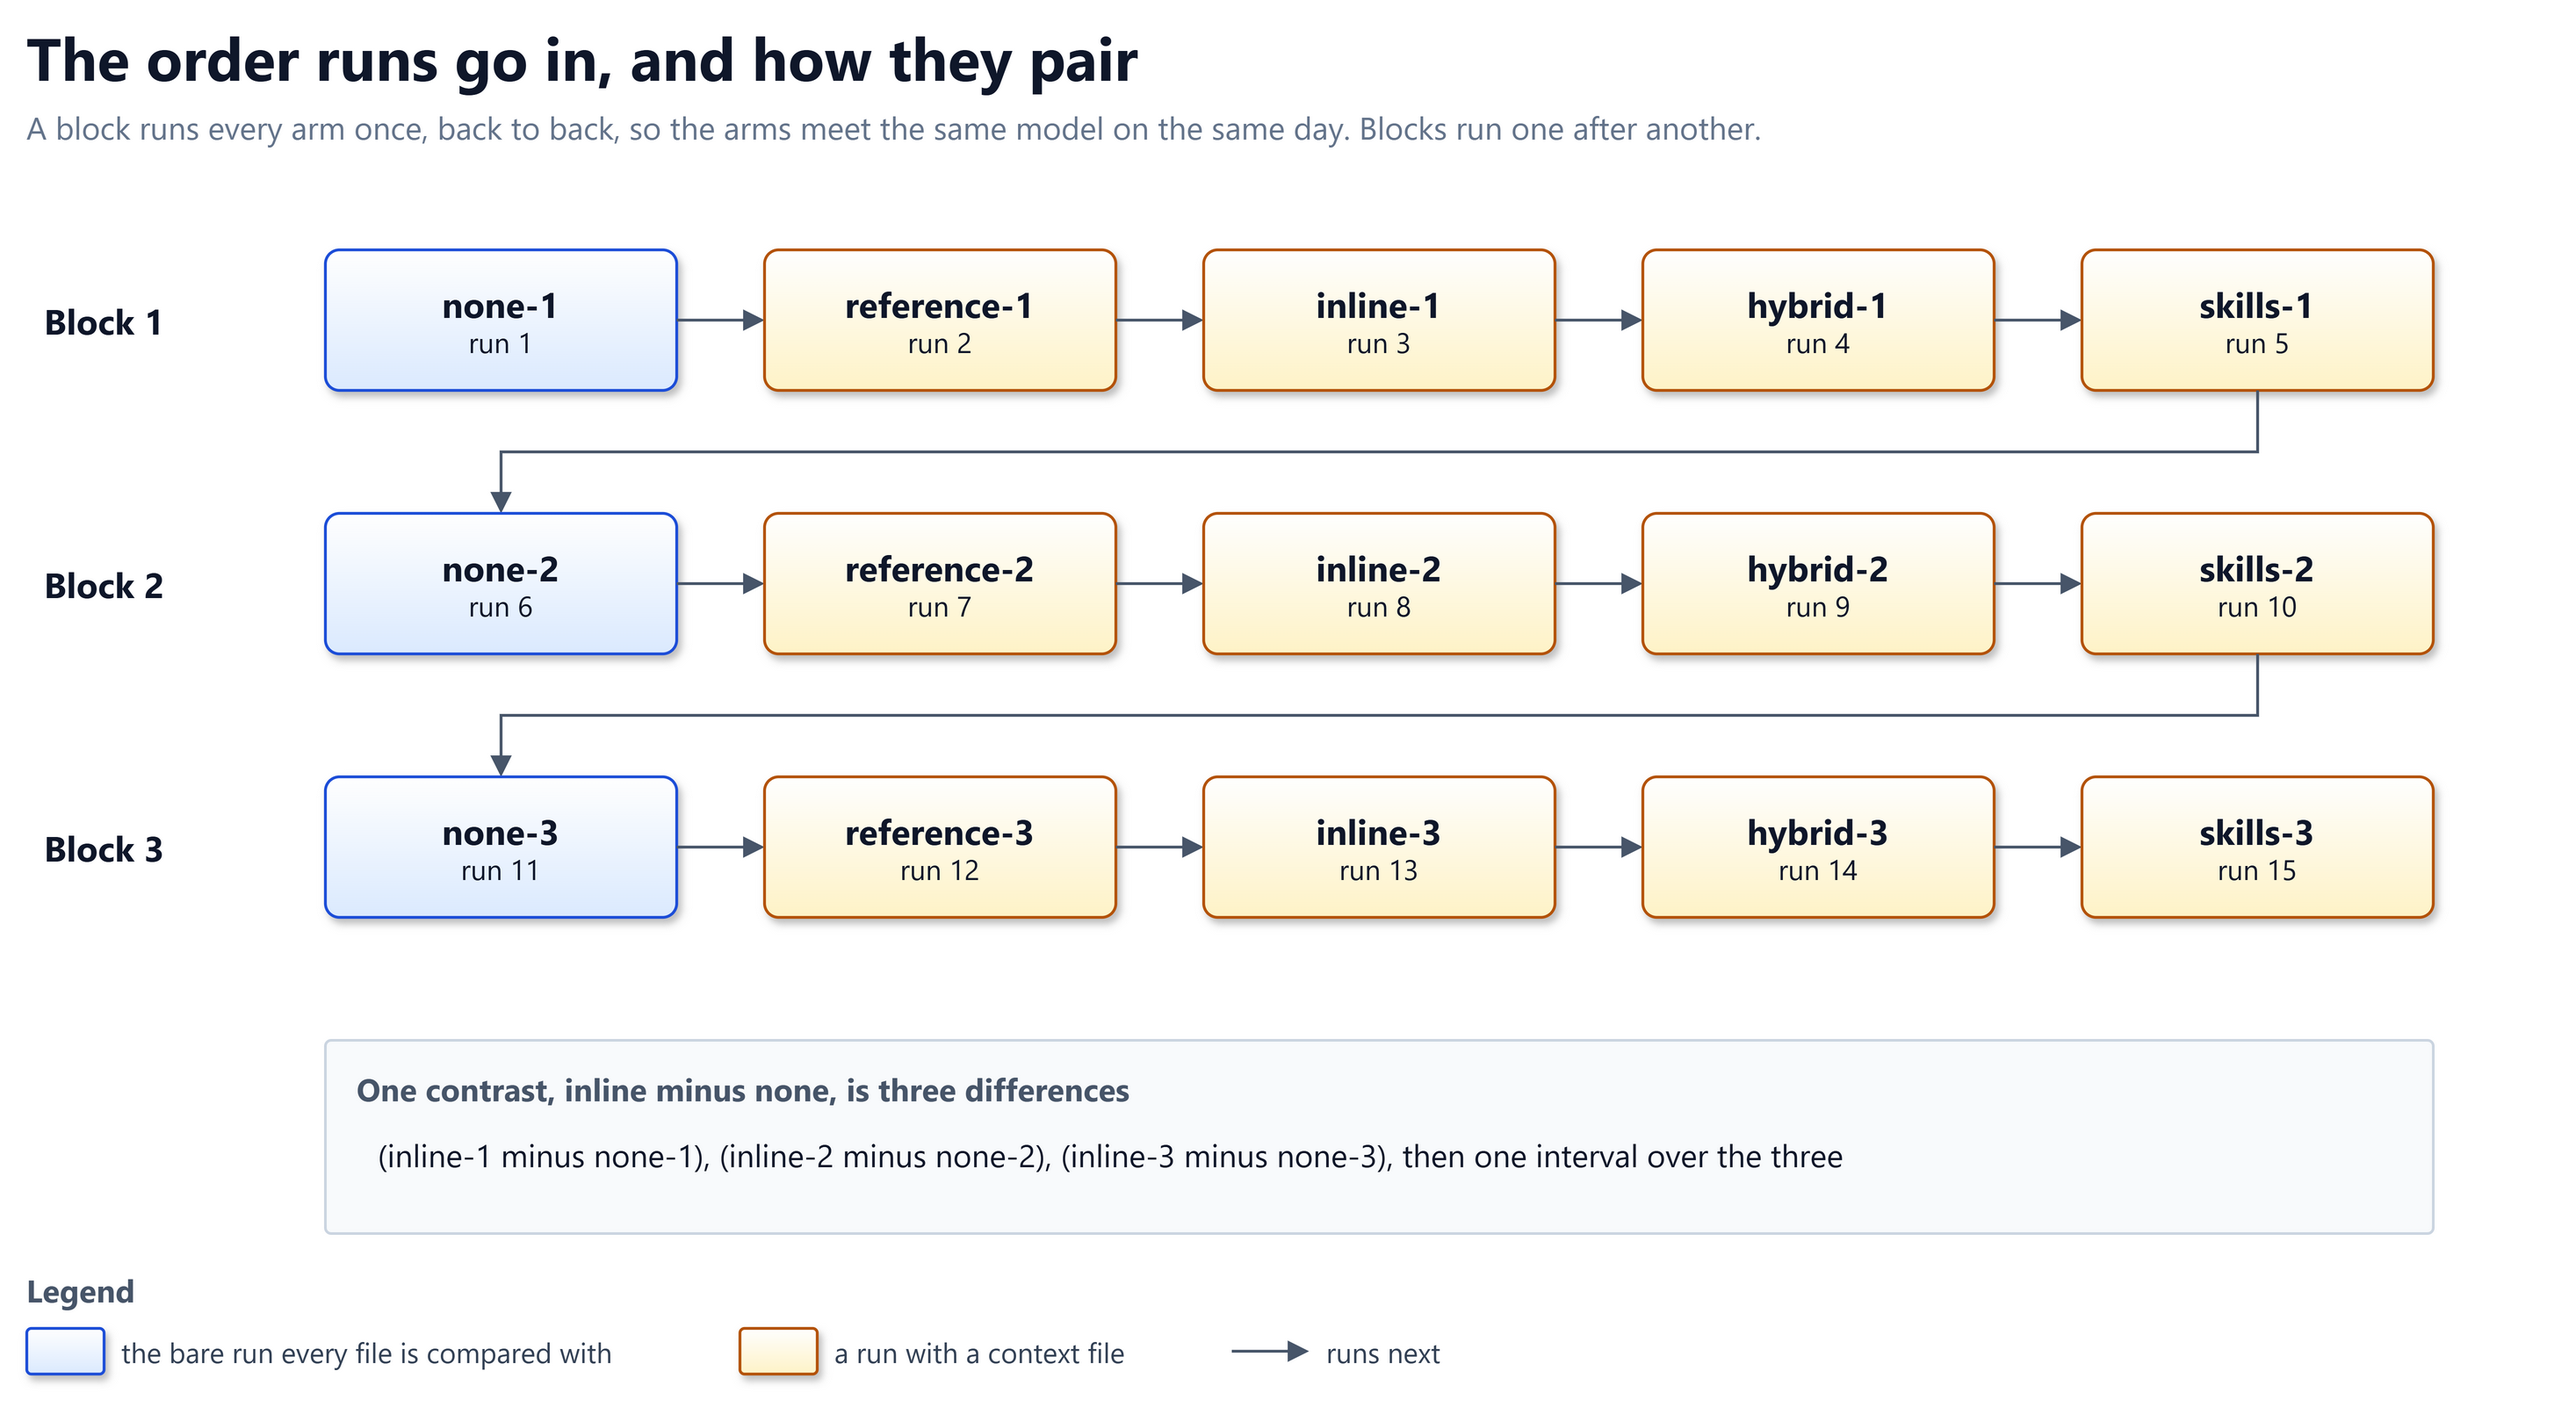
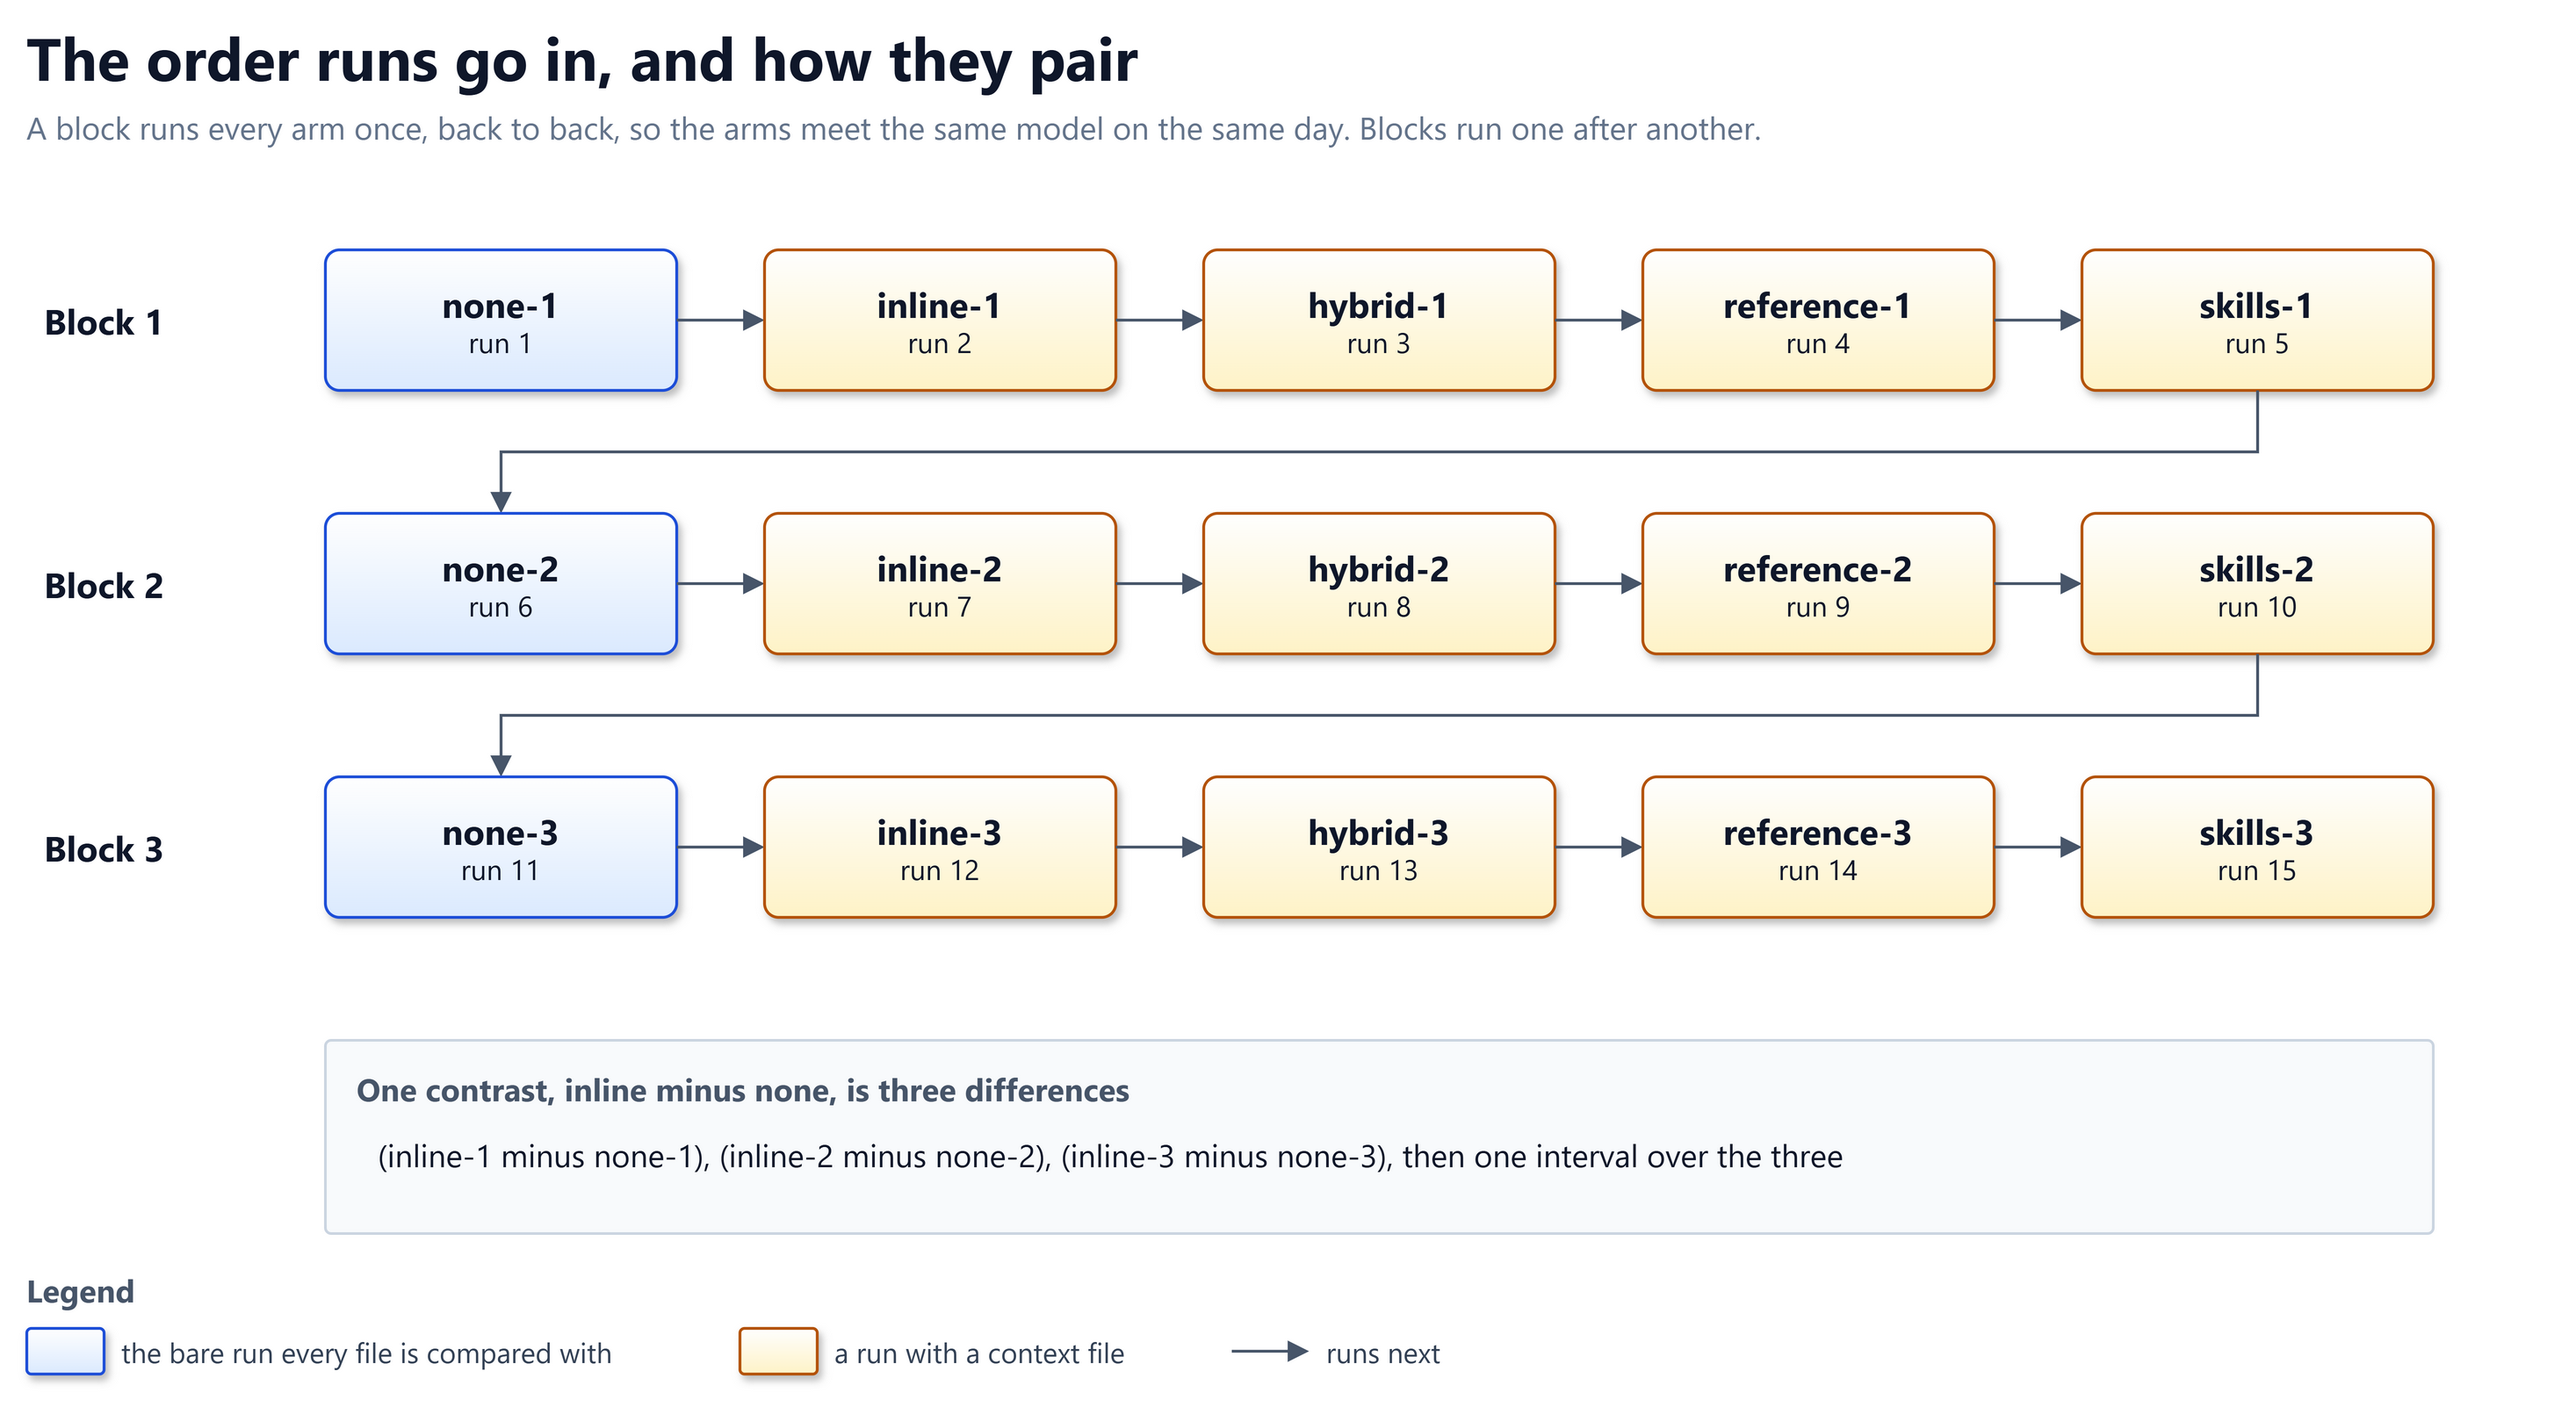
docs(primer): order the arms from all rules inline to rules on demand
The knob, the arms table and both diagrams list the arms as none,
inline, hybrid, reference, skills: from every rule in the file to rules
loaded only when a task needs them.

Claude-Session: https://claude.ai/code/session_01HVh8GVGd72WUJ3BvM7TXQn

diff --git a/docs/primer.md b/docs/primer.md
@@ -46,11 +46,11 @@ one sitting and strict enough that a wrong cent shows.
 A round turns one knob at a time and holds everything else still. Then any
 change on the meters has one cause.
 
-![Five knobs the benchmark turns, each with its settings: the context file (none, reference, inline, hybrid, skills, with none selected), the specification (thin or normal), the builder model (Haiku 4.5 or Sonnet 5), the task (build or change) and the runs per arm (3 or 5). Below them, what is held still in every run: the app, the bounds of $100 or two hours, the prompt, the ruler and the judge. Below that, the meters read on every run: hidden tests, attack probes, the judge's scores, conventions, size and cost](diagrams/knobs.png)
+![Five knobs the benchmark turns, each with its settings: the context file (none, inline, hybrid, reference, skills, with none selected), the specification (thin or normal), the builder model (Haiku 4.5 or Sonnet 5), the task (build or change) and the runs per arm (3 or 5). Below them, what is held still in every run: the app, the bounds of $100 or two hours, the prompt, the ruler and the judge. Below that, the meters read on every run: hidden tests, attack probes, the judge's scores, conventions, size and cost](diagrams/knobs.png)
 
 | Knob | Settings | What turning it asks | Turned in |
 | ---- | -------- | -------------------- | --------- |
-| Context file, the **arm** | `none`, `reference`, `inline`, `hybrid`, `skills` | Does a file help, and which way of delivering the rules | Every round |
+| Context file, the **arm** | `none`, `inline`, `hybrid`, `reference`, `skills` | Does a file help, and which way of delivering the rules | Every round |
 | Specification | normal, thin | Does a file supply what a sparse spec leaves out | Round 4 |
 | Builder model | Sonnet 5, Haiku 4.5 | Does a file help a weaker model more | Round 4 |
 | Task | build, change | Does the design take a change it was not built for | Most rounds. Round 4's thin run only built |
@@ -61,9 +61,9 @@ The five arms of round 5, which asks how the rules should reach the agent:
 | Arm | What the agent gets | What it isolates |
 | --- | ------------------- | ---------------- |
 | `none` | No file: the bare agent | The baseline every file is compared with |
-| `reference` | A file that only names the templates to read, with the templates beside it | Is pointing to the rules enough |
 | `inline` | Every rule that applies, copied in | Do the templates help when all of it is in the file |
 | `hybrid` | The rules that matter copied in, the rest pointed to, the templates beside it | Does the way the owner's projects use help |
+| `reference` | A file that only names the templates to read, with the templates beside it | Is pointing to the rules enough |
 | `skills` | A short root file plus one skill per kind of task, loaded when the task needs it | Does a root file with skills deliver what hybrid does |
 
 Rounds 1 to 4 ran `full`, the `inline` idea made through the templates'
@@ -98,7 +98,7 @@ in section 8. The design's section 13 registers round 5.
 
 ## 5. Why runs are paired
 
-![Fifteen runs in three blocks, five arms per block, run one after another: none-1, reference-1, inline-1, hybrid-1 and skills-1, then block 2, then block 3. A contrast such as inline minus none is three differences, inline-1 minus none-1, inline-2 minus none-2 and inline-3 minus none-3, with one interval over the three](diagrams/run-order.png)
+![Fifteen runs in three blocks, five arms per block, run one after another: none-1, inline-1, hybrid-1, reference-1 and skills-1, then block 2, then block 3. A contrast such as inline minus none is three differences, inline-1 minus none-1, inline-2 minus none-2 and inline-3 minus none-3, with one interval over the three](diagrams/run-order.png)
 
 A model's behaviour drifts from day to day. So the arms take turns: block 1
 runs every arm once, back to back, then block 2, then block 3. Runs in one
